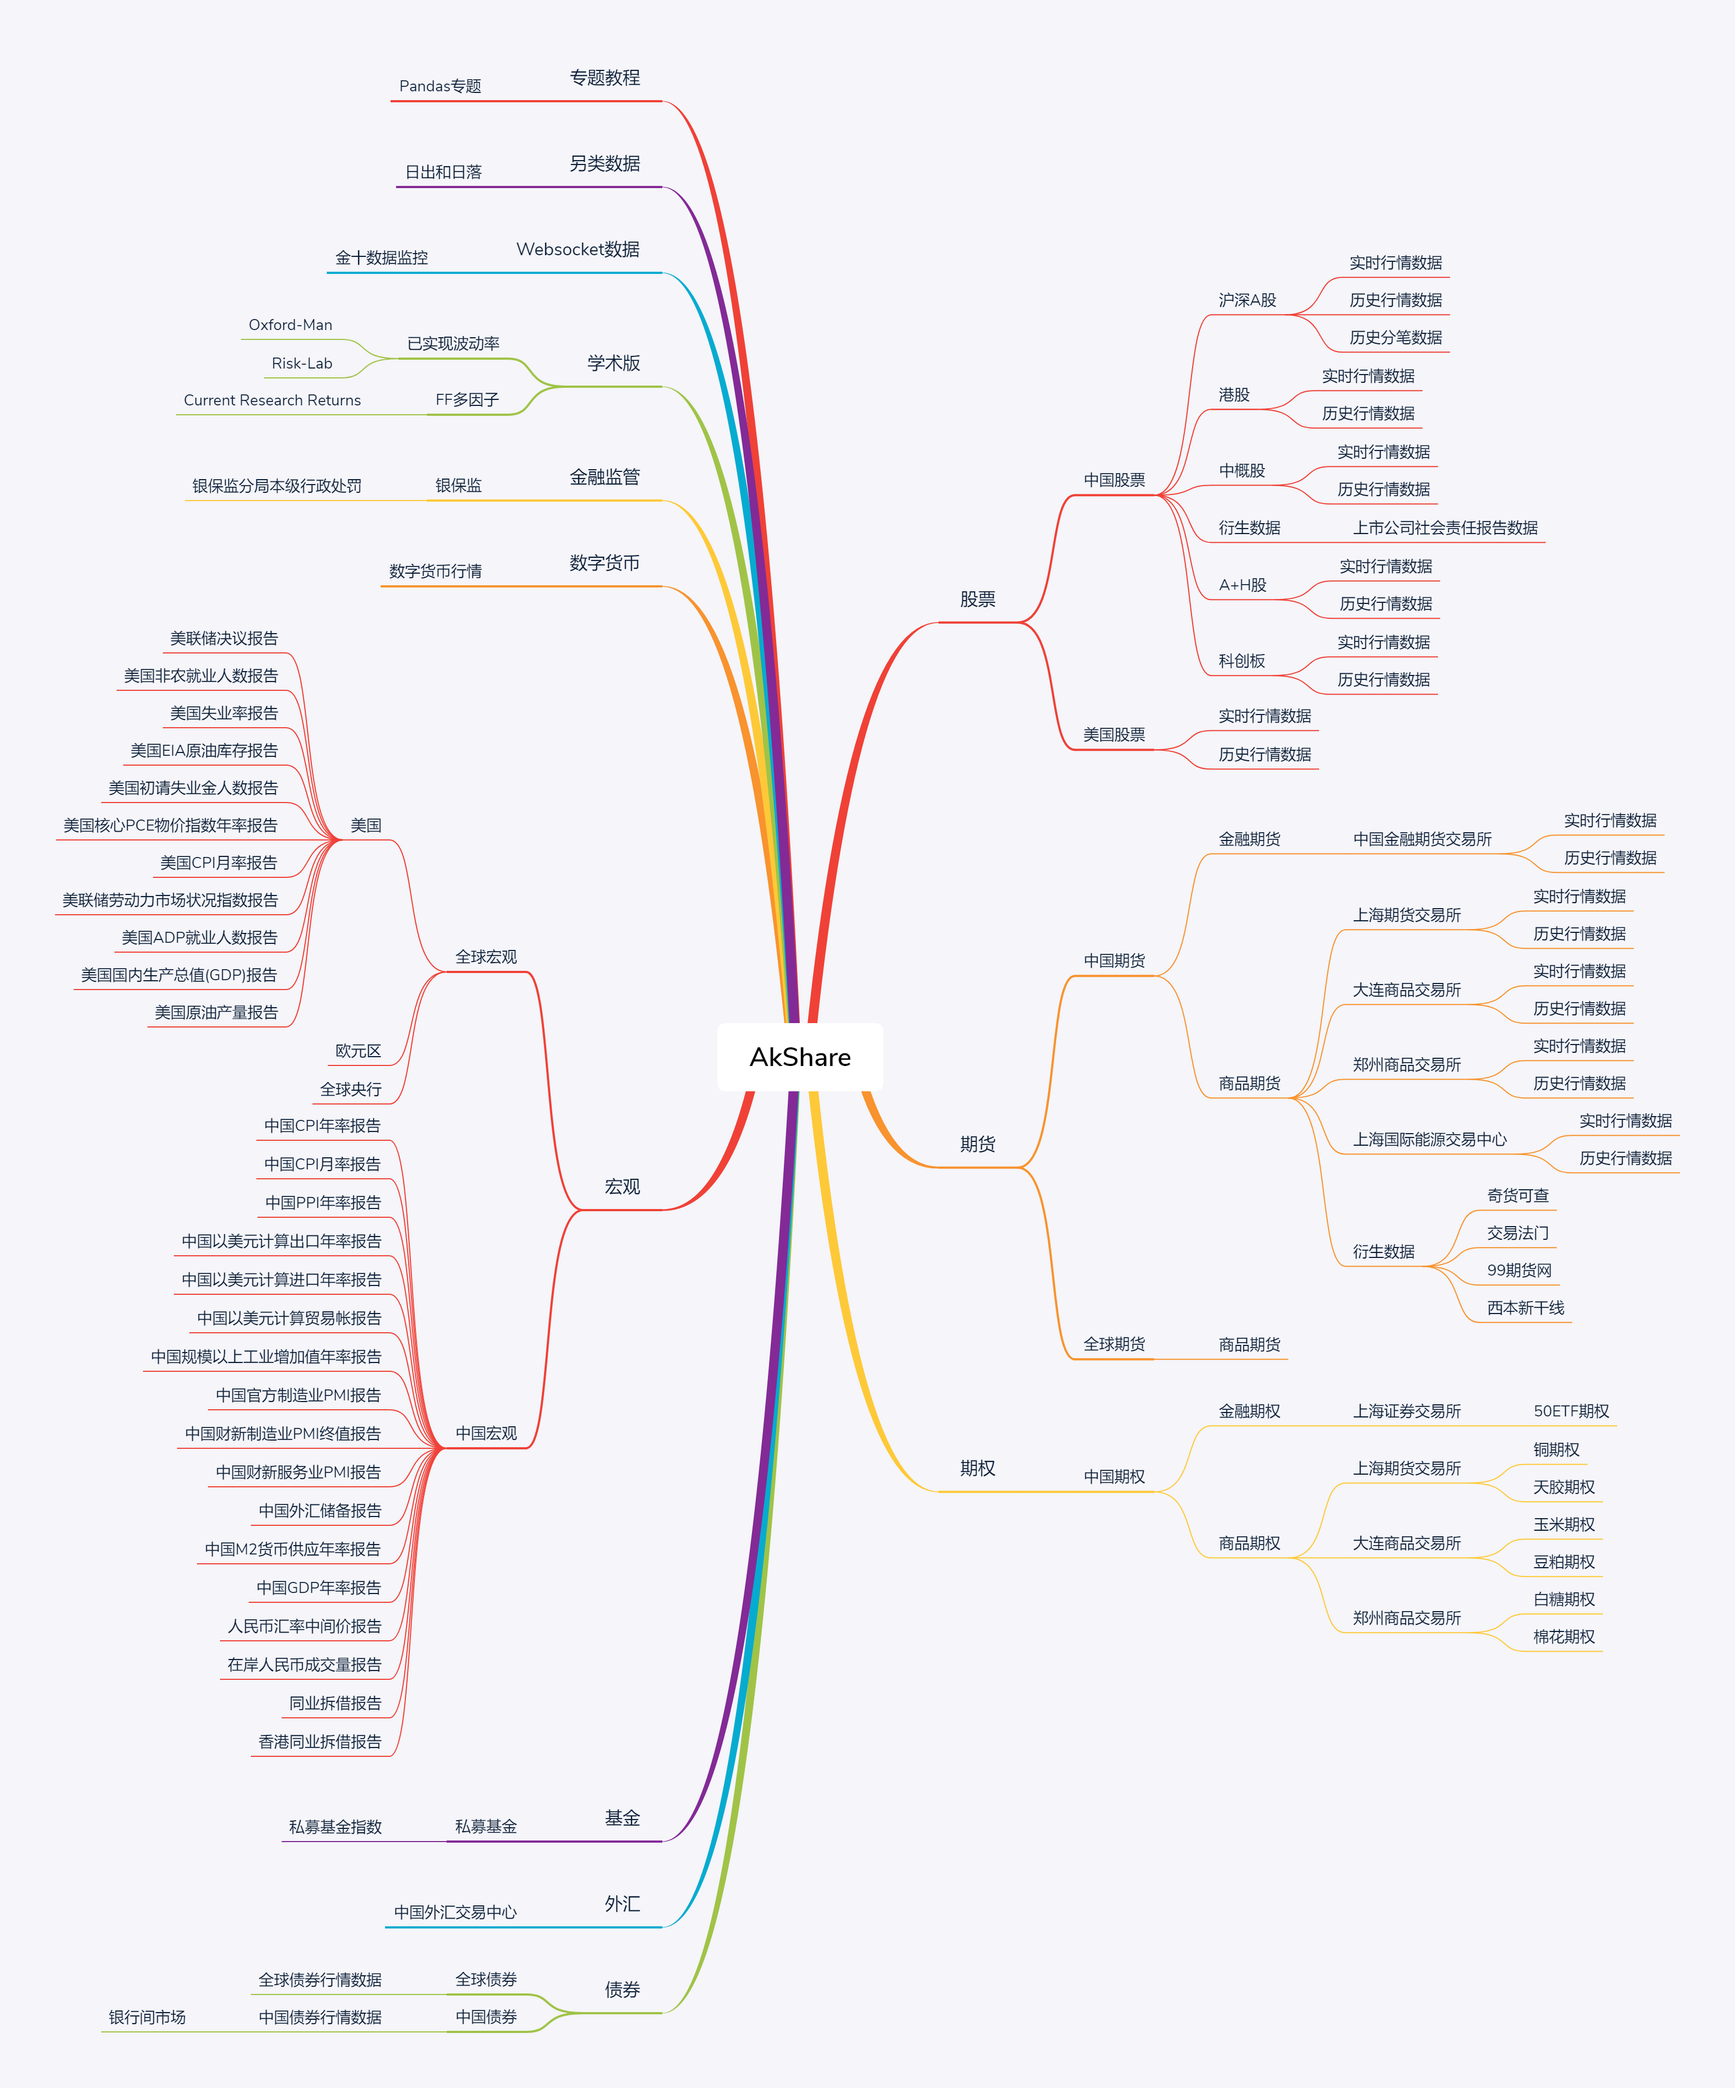
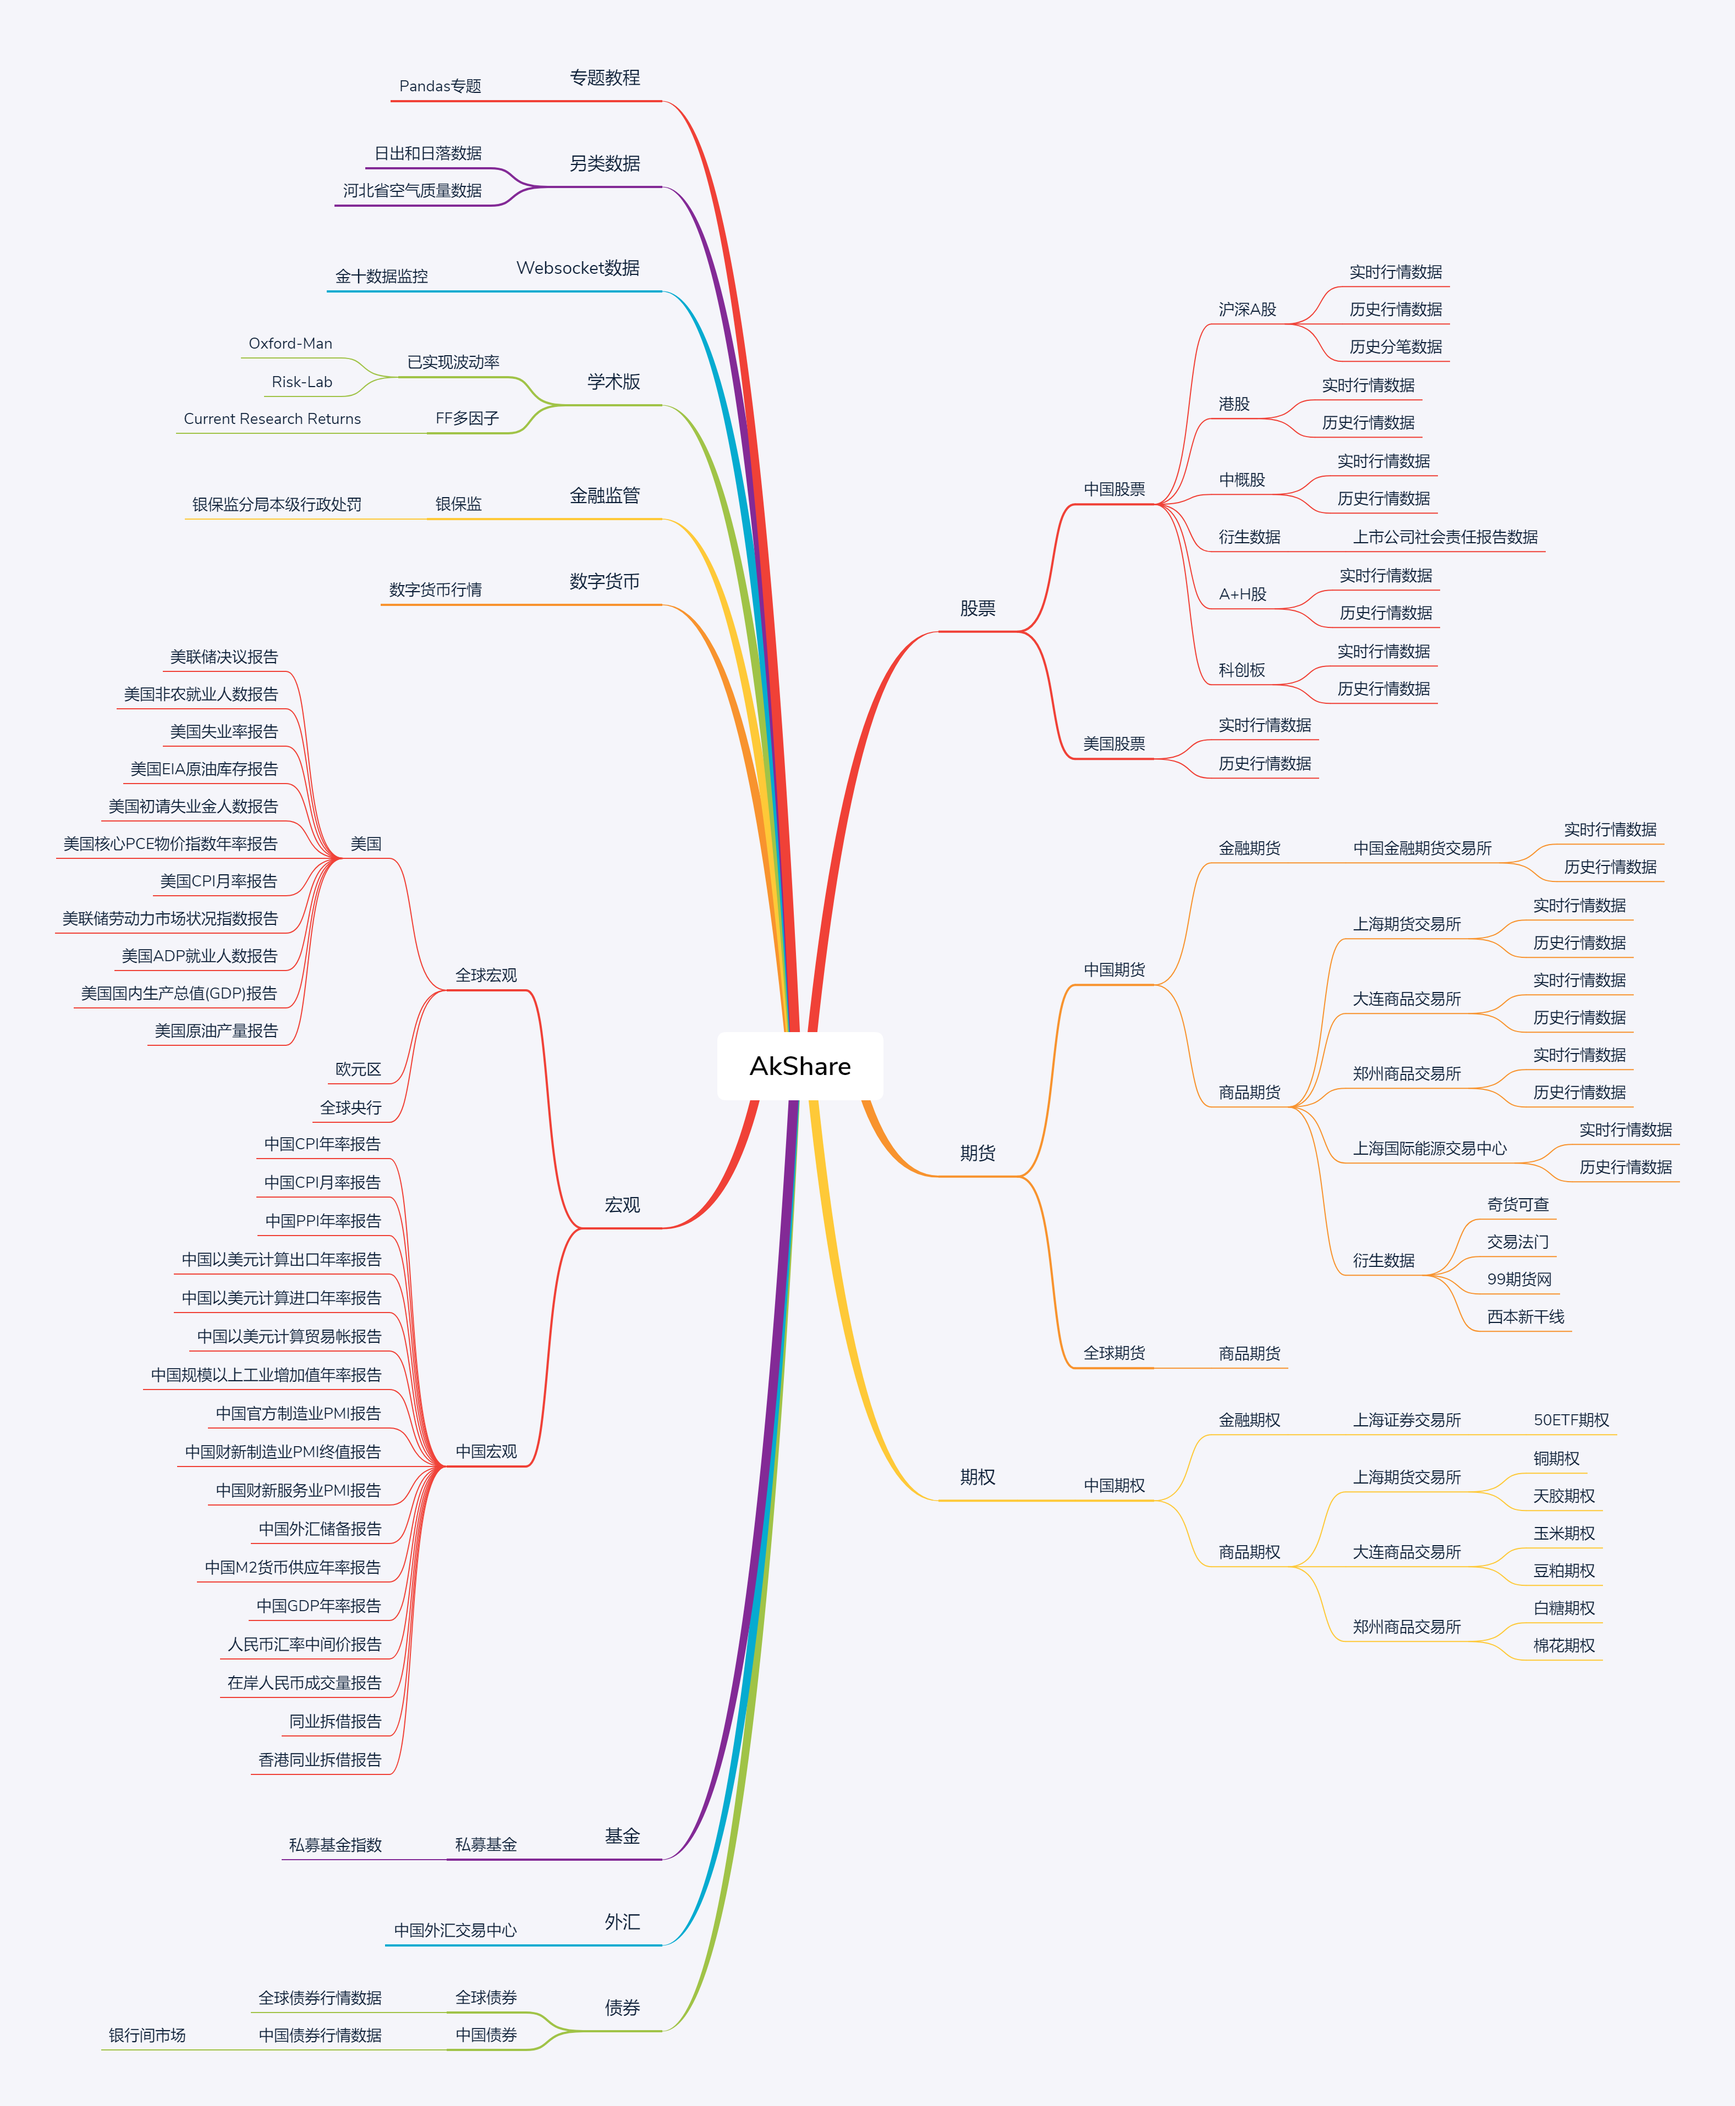
0.2.45 增加河北空气指数数据

diff --git a/akshare/weather/air_hebei.py b/akshare/weather/air_hebei.py
@@ -1,0 +1,39 @@
+# -*- coding:utf-8 -*-
+# /usr/bin/env python
+"""
+Author: Albert King
+date: 2019/11/26 16:33
+contact: jindaxiang@163.com
+desc: 
+"""
+import pandas as pd
+import requests
+
+
+def air_hebei(city="定州市"):
+    url = "http://110.249.223.67/publishNewServer/api/CityPublishInfo/GetProvinceAndCityPublishData?publishDate=2019-11-26%2016:00:00"
+    res = requests.get(url)
+    json_data = res.json()
+
+    city_list = pd.DataFrame.from_dict(json_data["cityPublishDatas"], orient="columns")["CityName"].tolist()
+    city_1 = pd.DataFrame.from_dict([item["Date1"] for item in json_data["cityPublishDatas"]], orient="columns")
+    city_2 = pd.DataFrame.from_dict([item["Date2"] for item in json_data["cityPublishDatas"]], orient="columns")
+    city_3 = pd.DataFrame.from_dict([item["Date3"] for item in json_data["cityPublishDatas"]], orient="columns")
+    city_4 = pd.DataFrame.from_dict([item["Date4"] for item in json_data["cityPublishDatas"]], orient="columns")
+    city_5 = pd.DataFrame.from_dict([item["Date5"] for item in json_data["cityPublishDatas"]], orient="columns")
+    city_6 = pd.DataFrame.from_dict([item["Date6"] for item in json_data["cityPublishDatas"]], orient="columns")
+
+    city_1.index = city_list
+    city_2.index = city_list
+    city_3.index = city_list
+    city_4.index = city_list
+    city_5.index = city_list
+    city_6.index = city_list
+
+    big_df = pd.concat([city_1, city_2, city_3, city_4, city_5, city_6])
+    return big_df[big_df.index == city]
+
+
+if __name__ == "__main__":
+    temp_df = air_hebei(city="定州市")
+    print(temp_df)

diff --git a/akshare/weather/format.py b/akshare/weather/format.py
@@ -1,0 +1,17 @@
+# -*- coding:utf-8 -*-
+# /usr/bin/env python
+"""
+Author: Albert King
+date: 2019/11/26 8:31
+contact: jindaxiang@163.com
+desc: 
+"""
+import pandas as pd
+
+data = pd.read_excel(r'C:\Users\king\Desktop\sun\weather.xlsx', index_col=0, parse_dates=True)
+city_list = list(set(data["area"]))
+big_df = data[data["area"] == city_list[0]]
+for city in city_list[1:]:
+    temp_df = data[data["area"] == city]
+    big_df = big_df.merge(temp_df, left_index=True, right_index=True)
+big_df.to_excel("weather2.xlsx")

diff --git a/akshare/__init__.py b/akshare/__init__.py
@@ -312,10 +312,17 @@ PCE物价指数年率报告
 重构私募指数接口
 0.2.44
 增加日出和日落模块
+0.2.45
+增加河北空气指数数据
 """
 
-__version__ = '0.2.44'
+__version__ = '0.2.45'
 __author__ = 'Albert King'
+
+"""
+空气-河北
+"""
+from akshare.weather.air_hebei import (air_hebei)
 
 """
 timeanddate-日出和日落

diff --git a/docs/source/data/weather/air.md b/docs/source/data/weather/air.md
@@ -1,0 +1,50 @@
+## [AkShare](https://github.com/jindaxiang/akshare) 另类数据
+
+### 空气-河北
+
+#### 日出和日落-天
+接口: air_hebei
+
+目标地址: http://110.249.223.67/publish/
+
+描述: 获取河北省近6天空气污染情况
+
+限量: 单次返回 6 天的数据
+
+输入参数
+
+| 名称   | 类型 | 必选 | 描述                                                                              |
+| -------- | ---- | ---- | --- |
+| city | str | Y | city="定州市" |
+
+
+输出参数
+
+| 名称          | 类型 | 默认显示 | 描述           |
+| --------------- | ----- | -------- | ---------------- |
+| 城市      | str   | Y        | 城市-索引  |
+| Datadate      | str   | Y        | 日期  |
+| Pollutant      | float   | Y        | PM2.5   |
+| MinAQI     | str   | Y        | 最小  |
+| MaxAQI      | float   | Y        | 最大   |
+| Level      | str   | Y        | 程度  |
+
+接口示例
+
+```python
+import akshare as ak
+air_df = ak.air_hebei(city="定州市")
+print(air_df)
+```
+
+数据示例
+
+```
+               Datadate Pollutant MinAQI MaxAQI  Level
+定州市  2019/11/27 0:00:00     PM2.5     80    110   良-轻度
+定州市  2019/11/28 0:00:00     PM2.5     90    120   良-轻度
+定州市  2019/11/29 0:00:00     PM2.5    175    205  中度-重度
+定州市  2019/11/30 0:00:00     PM2.5    175    205  中度-重度
+定州市   2019/12/1 0:00:00     PM2.5    175    205  中度-重度
+定州市   2019/12/2 0:00:00     PM2.5     80    110   良-轻度
+```

diff --git a/README.md b/README.md
@@ -106,6 +106,8 @@ pip install akshare --upgrade
 
 感谢[timeanddate网站](https://www.timeanddate.com/)提供的日出和日落数据;
 
+感谢[河北省空气质量预报信息发布系统网站](http://110.249.223.67/publish/)提供的河北省空气质量数据;
+
 感谢[微信公众号: Python大咖谈](https://upload-images.jianshu.io/upload_images/3240514-61004f2c71be4a0b.png)提供的 Pandas 教程.
 
 ## Communication

diff --git a/docs/source/data/index.rst b/docs/source/data/index.rst
@@ -19,3 +19,4 @@ AkShare 数据字典
     article/article
     ws/ws
     weather/weather
+    weather/air
